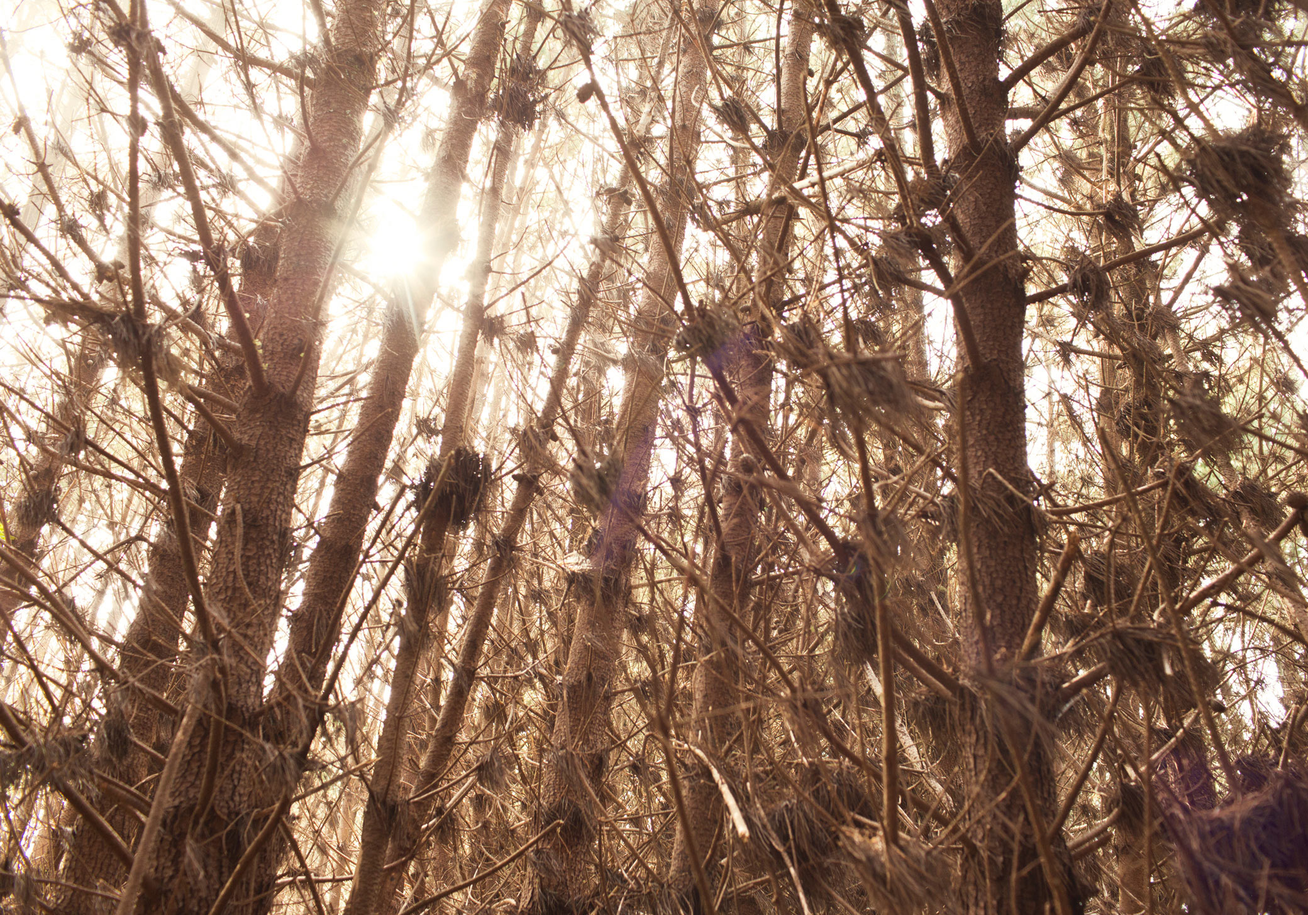
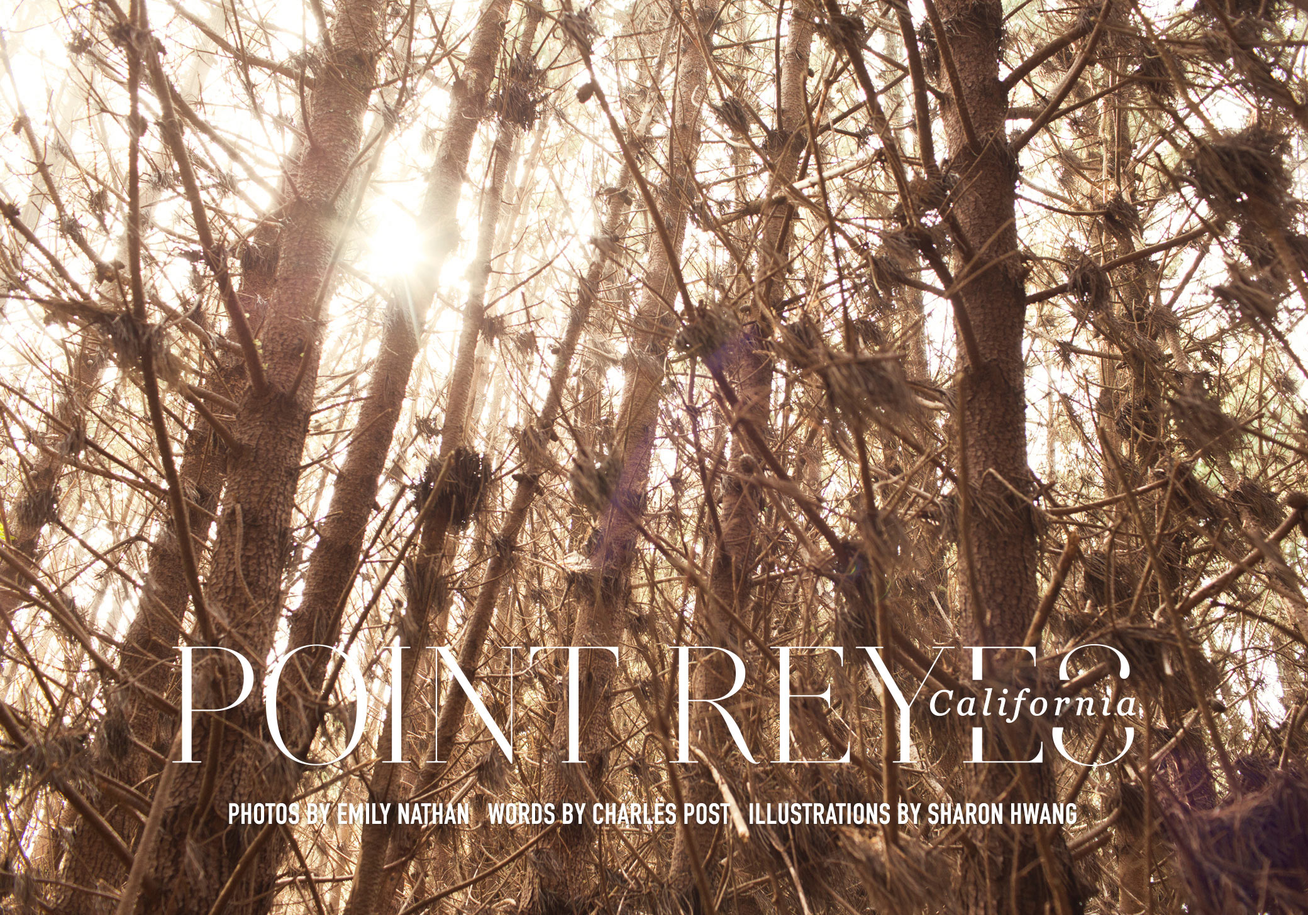
added credits to rockaway and minor corrections
corrected point reyes cover image, joshua tree text.

diff --git a/rockaways/index.html b/rockaways/index.html
@@ -207,6 +207,80 @@
                   <img srcset="images/08-tiny-atlas-quarterly-rockaways-we-are-the-rhoads-S.jpg" alt="Tiny Atlas Quarterly, Rockaways, New York, The Rhodes">
                 </picture>
                 <!-- IMAGE END -->
+
+                <!-- box CONTRIBUTORS -->
+                <div class="pg-box" id="page-resources-box">
+                    <!-- page content -->
+                    <h1>Contributors &amp;<br />Resources</h1>
+                    <div class="pg-box-content" id="page-resources-box-content">
+
+                    <!-- | -->
+                    <div class="pg-credits-box">
+                    <span class="pg-contributor">Photographer</span>
+                    <br /><a href="http://wearetherhoads.com" target="_blank">We Are The Rhoads</a>
+                    </div>
+
+                    <!-- | -->
+                    <div class="pg-credits-box">
+                    <span class="pg-contributor">Stylist</span>
+                    <br /><a href="http://morgangibbons.com" target="_blank">Morgan Gibbons for Tricia Joyce</a>
+                    </div>
+
+                    <!-- | -->
+                    <div class="pg-credits-box">
+                    <span class="pg-contributor">Make up</span>
+                    <br /><a href="http://www.sarahappleby.com/blog/" target="_blank">Sarah Appleby</a>
+                    </div>
+
+                    <!-- | -->
+                    <div class="pg-credits-box">
+                    <span class="pg-contributor">Hair</span>
+                    <br /><a href="http://abtp.com/Hair/Hair/Andrew-Fitzsimons" target="_blank">Andrew Fitzsimons for ABTP</a>
+                    </div>
+
+                    <!-- | -->
+                    <div class="pg-credits-box">
+                    <span class="pg-contributor">Model</span>
+                    <br /><a href="http://models.com/models/Anna-Iaryn" target="_blank">Anna Iaryn for New York Models</a>
+                    </div>
+
+                    <!-- | -->
+                    <div class="pg-credits-box">
+                    <span class="pg-contributor">Designer</span>
+                    <br /><a href="http://lorencrosier.com" target="_blank">Loren Crosier</a>
+                    </div>
+
+                    <!-- | -->
+                    <div class="pg-credits-box">
+                    <span class="pg-contributor">Stay</span>
+                    <br /><a href="http://www.playlandmotel.com" target="_blank">Playland Motel</a>
+                    <br /><a href="http://camprockaway.com" target="_blank">Camp Rockaway</a>
+                    </div>
+
+                    <!-- | -->
+                    <div class="pg-credits-box">
+                    <span class="pg-contributor">Eat &amp; Drink</span>
+                    <br /><a href="http://www.citysticksnyc.com/flavors/" target="_blank">City Stick</a>
+                    <br /><a href="http://86badvibes.com" target="_blank">Rippers</a>
+                    <br /><a href="http://www.caracasarepabar.com/rockaway.php" target="_blank">Caracas Arepa</a>
+                    <br /><a href="https://www.facebook.com/VEGGIEISLAND" target="_blank">Veggie Island</a>
+                    <br /><a href="http://conchosrockaway.com" target="_blank">Conchos</a>
+                    </div>
+
+                    <!-- | -->
+                    <div class="pg-credits-box">
+                    <span class="pg-contributor">Shop</span>
+                    <br /><a href="http://www.yelp.com/biz/rockaway-beach-surf-shop-rockaway-park" target="_blank">Rockaway beach Surf Shop</a>
+                    <br /><a href="http://www.endofthea.com" target="_blank">The End of the A</a>
+                    </div>
+
+                    <!-- | -->
+                    <div class="pg-credits-box">
+                    <span class="pg-contributor">Activities</span>
+                    <br /><a href="http://www.rockawaybeachsurfclub.com/#new-page-3" target="_blank">Rockaway Surf Club</a>
+                    </div>
+                  </div>
+                </div>
                </div><!-- end wrapper div -->
             </div>
             <!-- END PAGE 08 ------------------------------------------------------------->

diff --git a/joshuatree/index.html b/joshuatree/index.html
@@ -169,8 +169,6 @@
                               <p>Here, as in any rural area, one is much closer to the rhythms of the natural cycles and all the elements that culminate to define this space. Daily activities are defined by the hours of daylight, or the lack thereof, or the season (all four exist in this Southern California ecology).</p>
                               <br />
                               <p>When I first moved to the desert in December 2013, I feared the summer most. Already in a place without water, the temperatures reach 100 degrees without a cloud in the sky to break the blaring sun. This summer, I prepared myself on how to make my way through those fiery months. I would become nocturnal.</p>
-                              <br />
-                              <p>As the season changed from spring into summer, and the sun came up a little earlier and brighter, I made the same transition. Eventually I started getting up even before the sun to do chores outdoors or just take care of the morning routine without the resilience of the sun. </p>
 
                             </div><!-- END CONTENT -->
                        </div><!-- END CAPTION-->
@@ -272,9 +270,7 @@
                               <p>I could work until lunch, eat, nap, wake up, have an afternoon coffee and go through another round of work well into the evening and cross into the new hours of the morning. Most of the waking daylight hours were spent indoors, with minimal clothes, or if I was working outside, with long-sleeve linen shirts, shorts, and hat, all drenched with hose water. I would eat endless amounts of melon and drink gallons of water, or anything cold and wet. </p>
                               <br />
                               <p>My work site was twenty-five miles west from where I stayed. The early summer mornings took well to the Yamaha XT 250 I puttered across the open mesa into the Canyon most days of the week. The work was physical labor, outdoors. The site: high in the mountains, down dirt roads, and in the boulders that cool the environment to a bearable state. I was working to a close structure that had been established a few years prior. Turns out, the summer months were much nicer to work in than the cold, windy, winter months early in the year. Yet each season was a balance—beauty to bite—teaching self-reliance, strength, and weakness brought out by this desert Earth. </p>
-                              <br />
-                              <p>The desert’s physical landscape mirrors the psychological state that one ends up in when coming to this wide, open, arid land and deepens the longer one stays. Nothing lies in the way or alters anything coming in besides the outer edge of mountain ranges that either break or bring weather. The life that resides in the high desert is plenty, yet camouflaged to the unwilling eye. Each surviving species, either plant, animal, or human, has figured a way to push through the extremities of climates to bask in the fruitfulness that accompanies the hardship.</p>
-
+                              <br />      
                             </div><!-- END CONTENT -->
                        </div><!-- END CAPTION-->
                      </div> <!-- END BOX -->

diff --git a/ptreyes/index.html b/ptreyes/index.html
@@ -82,10 +82,10 @@
                      <!-- IMAGE START -->
                 <picture>
                   <!--[if IE 9]><video style="display: none;"><![endif]-->
-                  <source srcset="images/01-tiny-atlas-quarterly-point-reyes-emily-nathan-v1-L.jpg" media="(min-width: 960px)">
-                  <source srcset="images/01-tiny-atlas-quarterly-point-reyes-emily-nathan-v1-M.jpg" media="(min-width: 768px)">
+                  <source srcset="images/01-tiny-atlas-quarterly-point-reyes-emily-nathan-L.jpg" media="(min-width: 960px)">
+                  <source srcset="images/01-tiny-atlas-quarterly-point-reyes-emily-nathan-M.jpg" media="(min-width: 768px)">
                   <!--[if IE 9]></video><![endif]-->
-                  <img srcset="images/01-tiny-atlas-quarterly-point-reyes-emily-nathan-v1-S.jpg" alt="Tiny Atlas Quarterly, Point Reyes, Emily Nathan">
+                  <img srcset="images/01-tiny-atlas-quarterly-point-reyes-emily-nathan-S.jpg" alt="Tiny Atlas Quarterly, Point Reyes, Emily Nathan">
                 </picture>
                 <!-- IMAGE END -->
                </div><!-- end wrapper div -->
